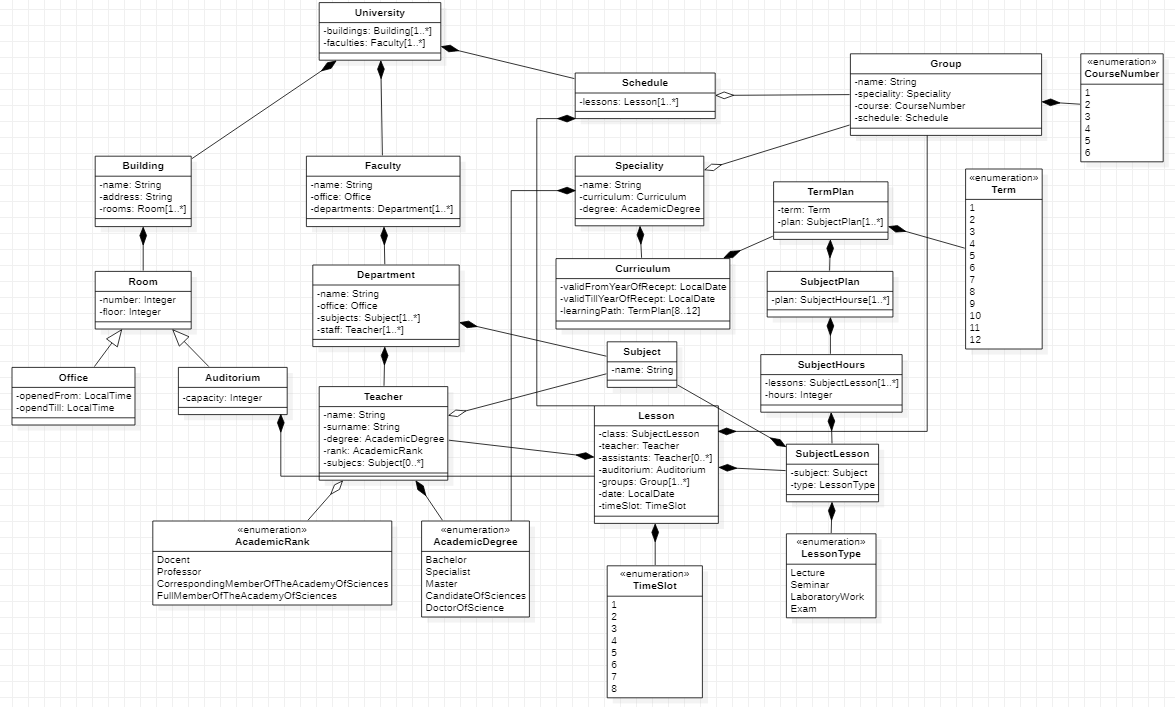
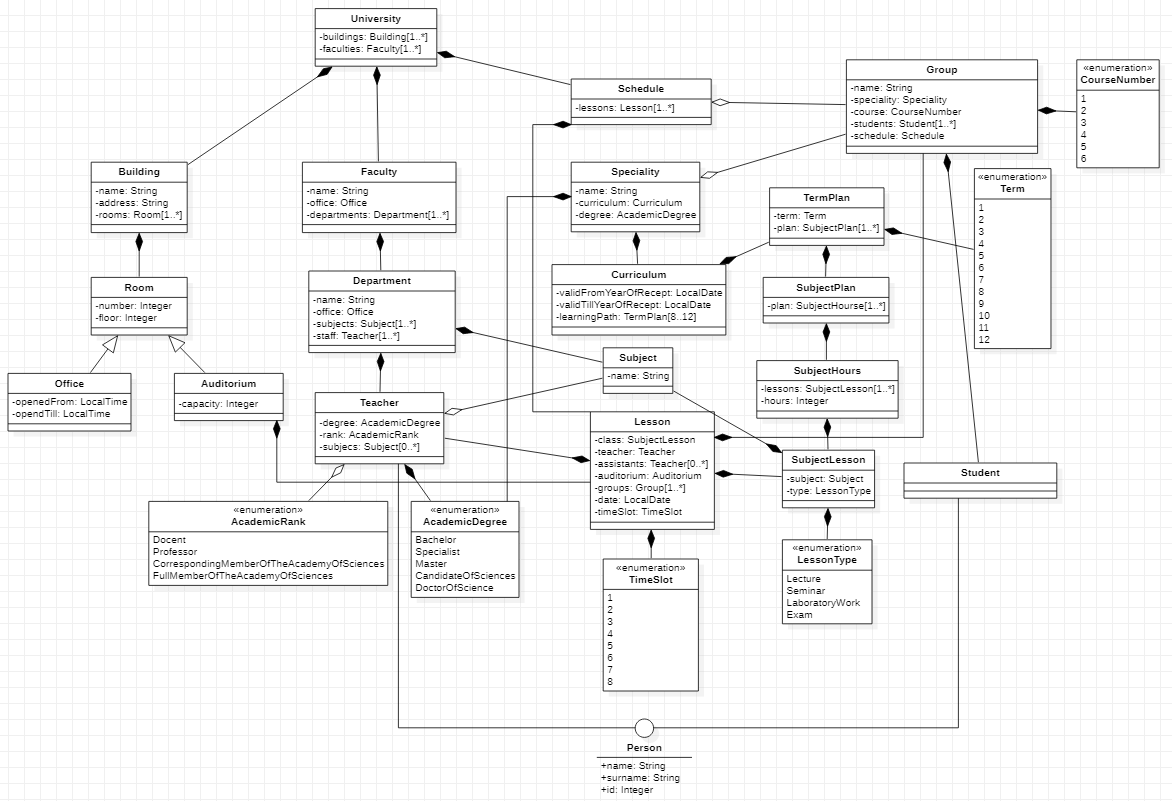
Add Student class; update README

diff --git a/README.md b/README.md
@@ -1,0 +1,3 @@
+Here is an UML representation of University structure.
+The main feature of the application is Class Timetable for students and teachers.
+Students or teachers can get their timetable for a day or for a month.
